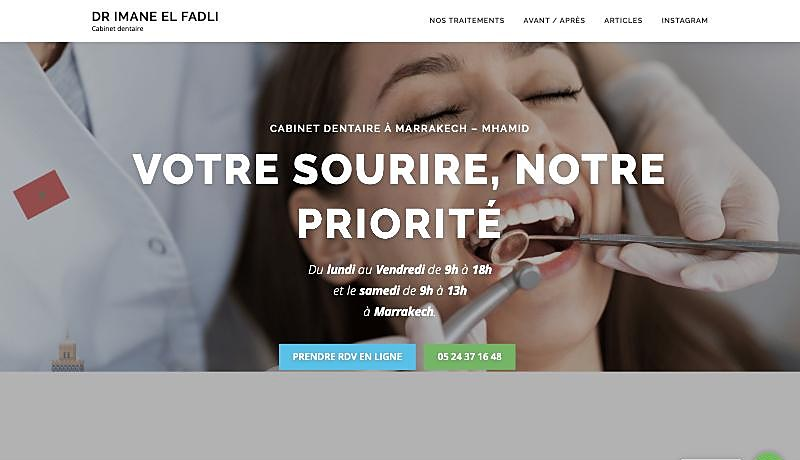
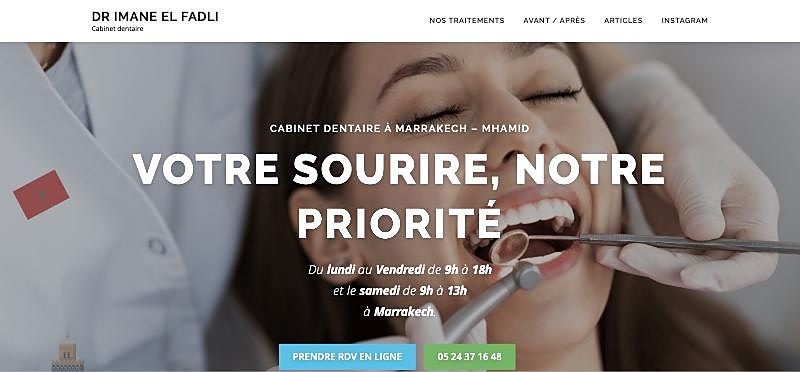
Capture du site dentaire recadrée
Claude-Session: https://claude.ai/code/session_01H74g1ojEwHaDnFfcwJFA5M

diff --git a/index.html b/index.html
@@ -97,9 +97,9 @@
 		.project { display: flex; flex-direction: column; border: 1px solid rgba(255,255,255,.14) !important; border-radius: 8px; overflow: hidden; background: rgba(255,255,255,.04); color: #fff !important; text-decoration: none !important; transition: transform .3s, border-color .3s, box-shadow .3s; }
 		.project:hover { transform: translateY(-4px); border-color: rgba(214,184,124,.6) !important; box-shadow: 0 12px 30px rgba(0,0,0,.35); }
 		.project:first-child { grid-column: 1 / -1; }
-		.project:first-child .project-img { aspect-ratio: 16 / 7; }
+		.project:first-child .project-img { aspect-ratio: 800 / 372; }
 		.project-img { aspect-ratio: 16 / 9; overflow: hidden; background: #111; }
-		.project-img img { width: 100%; height: 100%; object-fit: cover; object-position: top; transition: transform .6s ease; display: block; }
+		.project-img img { width: 100%; height: 100%; object-fit: cover; object-position: center top; transition: transform .6s ease; display: block; }
 		.project:hover .project-img img { transform: scale(1.04); }
 		.project-body { padding: 1.2rem 1.4rem 1.3rem; display: flex; flex-direction: column; flex: 1; }
 		.project-body h3 { margin: 0 0 .2rem; font-size: .95rem; letter-spacing: .12rem; }
